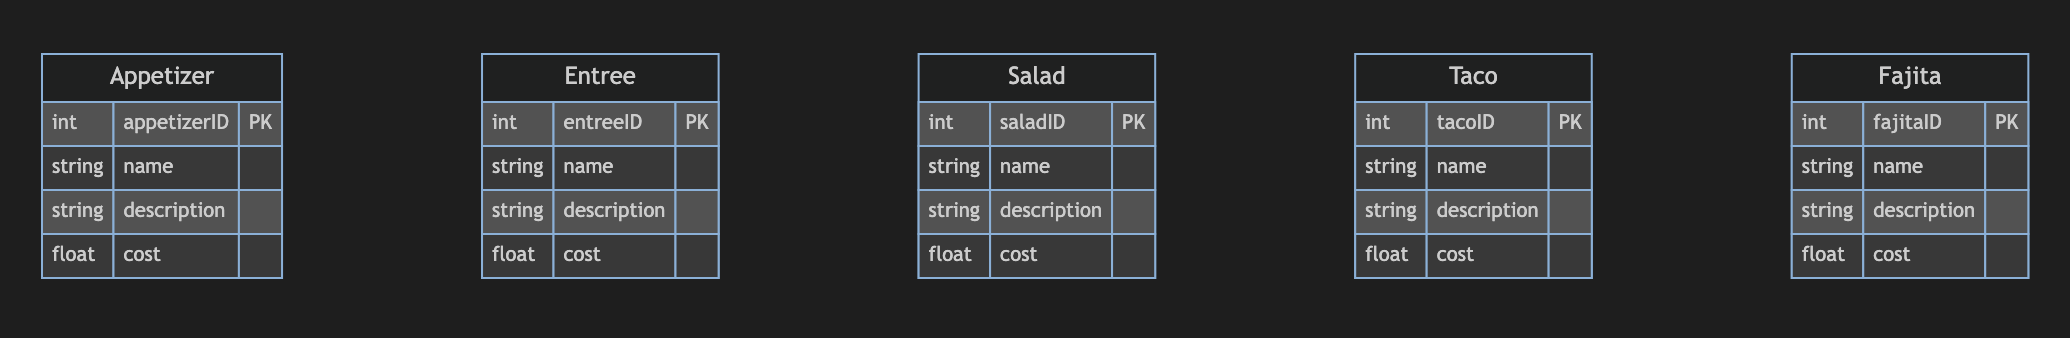
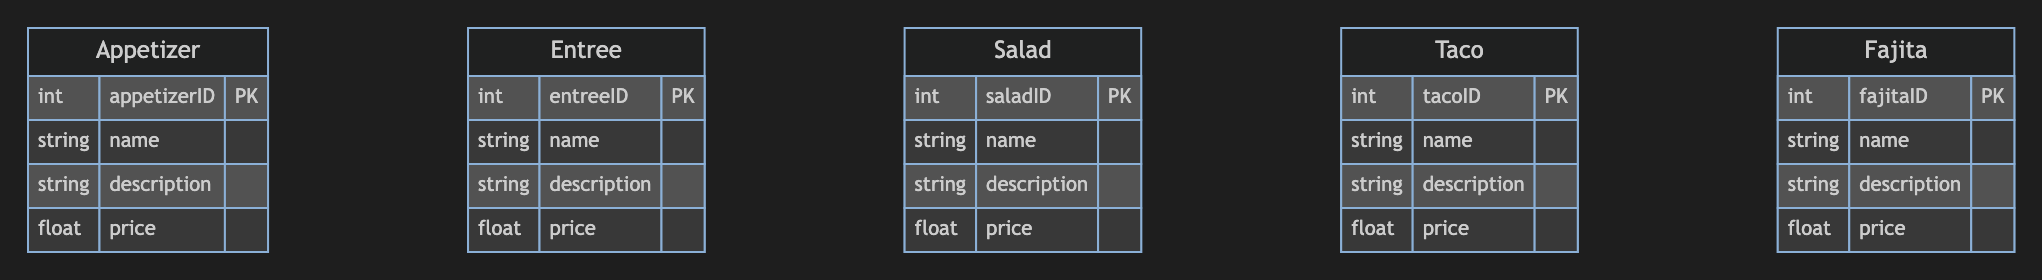
Created Entree DAO

diff --git a/src/daos/entree-dao.ts b/src/daos/entree-dao.ts
@@ -1,0 +1,103 @@
+/**
+ * Cesar Guerrero
+ * 04/17/2024
+ * 
+ * @file DAO for the Entree Table
+ */
+
+import { Repository, DataSource} from "typeorm";
+import { Entree } from "../models/entree";
+
+/**
+ * This class is the Data Access Object for the Entree Table and will be used to interact with the database
+ */
+export default class EntreeDAO{
+
+    private repository : Repository<Entree>;
+
+    constructor(dataSource: DataSource){
+        this.repository = dataSource.getRepository(Entree);
+    }
+
+    /**
+     * Return all the entree rows in the table
+     * @returns - A promise that resolves to an array of all the entrees in the table
+     */
+    async getAllEntrees(){
+        return await this.repository.find();
+    };
+
+    /**
+     * Attempt to find an entree with the given PK in the table
+     * @param {number | undefined} entreeID - The primary key of the entree we want to retrieve
+     * @returns - A promise that resolves to the entree object with the given ID
+     */
+    async getEntreeByID(entreeID: number|undefined){
+        return await this.repository.findOne({
+            where: {
+                entreeID: entreeID
+            }
+        });
+    };
+
+    /**
+     * Creates a new entree and attempt to save it to the database
+     * @param {Entree} entree - Must contain all of the necessary fields to create a new entree
+     * @returns - The object that was created in the database
+     */
+    async createEntree(entree: Entree){
+        const newEntree = this.repository.create(entree);
+        if(newEntree.price < 0){
+            throw new Error("Price cannot be negative");
+        };
+
+        const existingEntree = await this.getEntreeByID(newEntree.entreeID);
+        if(existingEntree !== null){
+            throw new Error("An entree with that PK already exists");
+        }
+
+        return await this.repository.save(newEntree);
+    };
+
+    /**
+     * Updates an existing entree in the table
+     * @param {Entree} entree - Must contain all of the necessary fields to update an entree
+     * @returns - The object that was updated in the database
+     */
+    async updateEntreeById(entree: Entree){
+        const existingEntree = await this.getEntreeByID(entree.entreeID);
+        if(existingEntree === null){
+            throw new Error("Entree does not exist");
+        }
+
+        const updatedEntree = {...existingEntree, ...entree};
+        if(updatedEntree.price < 0){
+            throw new Error("Price cannot be negative");
+        }
+
+        return await this.repository.save(entree);
+    };
+
+    /**
+     * Deletes an entree from the table
+     * @param {number | undefined} entreeID - The primary key of the entree we want to delete
+     * @returns - The object that was deleted from the database
+     */
+    async deleteEntreeById(entreeID: number|undefined){
+        const entree = await this.getEntreeByID(entreeID);
+        if(entree === null){
+            throw new Error("Entree does not exist");
+        }
+
+        return await this.repository.remove(entree);
+    };
+
+
+    /**
+     * Deletes all entrees from the table
+     * @returns - An empty promise
+     */
+    async deleteAllEntrees(){
+        return await this.repository.clear();
+    };
+}

diff --git a/src/daos/appetizer-dao.ts b/src/daos/appetizer-dao.ts
@@ -42,7 +42,7 @@ export default class AppetizerDAO{
     };
 
     /**
-     * Creates a new appetizer and attempts to save it to the database
+     * Creates a new appetizer and attempt to save it to the database
      * @param {Appetizer} appetizer - Must contain all of the necessary fields to create a new appetizer
      * @returns - The object that was created in the database
      */
@@ -53,7 +53,7 @@ export default class AppetizerDAO{
         }
         
         //We do not want to allow creation of appetizers with the same PK
-        const existingAppetizer = await this.getAppetizerByID(newAppetizer.appetizerID)
+        const existingAppetizer = await this.getAppetizerByID(newAppetizer.appetizerID);
         if(existingAppetizer !== null){
             throw new Error("An appetizer with that PK already exists");
         }
@@ -86,19 +86,19 @@ export default class AppetizerDAO{
      * @returns - An empty promise
      */
     async deleteAppetizerById(appetizerID: number|undefined){
-        const existingAppetizer = await this.getAppetizerByID(appetizerID);
-        if(existingAppetizer === null){
+        const appetizer = await this.getAppetizerByID(appetizerID);
+        if(appetizer === null){
             throw new Error("An appetizer with that PK does not exist");
         }
 
-        return await this.repository.remove(existingAppetizer);
+        return await this.repository.remove(appetizer);
     };
 
     /**
      * Clears all the data in the given table via hte TRUNCATE method
      * @returns - An empty promise
      */
-        async deleteAllAppetizers(){
+    async deleteAllAppetizers(){
         return await this.repository.clear();
     }
 

diff --git a/src/app.ts b/src/app.ts
@@ -14,9 +14,8 @@ import { DataSource } from "typeorm";
 import { testDataSource, devDataSource } from "./data-source";
 
 //DAOs
-//import { EntreeDAO } from "./dao/entree";
+import EntreeDAO from "./daos/entree-dao";
 import AppetizerDAO from "./daos/appetizer-dao";
-//import { SaladDAO } from "./dao/salad";
 
 
 /**
@@ -56,6 +55,7 @@ export default async function createApp(ENVIRONMENT ?: string){
     
     //Rather than handle all of the database logic within the routes, we can create DAOs to handle the database logic
     const appetizerDAO = new AppetizerDAO(dataSource);
+    const entreeDAO = new EntreeDAO(dataSource);
 
     return application;
 }

diff --git a/src/models/entree.ts b/src/models/entree.ts
@@ -11,7 +11,7 @@ import { Entity, Column, PrimaryGeneratedColumn} from 'typeorm';
 @Entity()
 export class Entree{
     @PrimaryGeneratedColumn()
-    entreeID!: number
+    entreeID?: number
 
     @Column()
     name!: string

diff --git a/README.md b/README.md
@@ -36,7 +36,7 @@ The above ER Diagrams were made using the Mermaid Diagramming Tool (https://merm
 The requirements around pricing for certain food combinations is handled within the DAO as opposed to built into the database. For instance in the database you will find that the *Sides Table* has costs associated with all of the various sides, but a number of food orders get these sides for free. In those cases the business logic handles any cost calculations.
 
 ## Simple Tables
-While the simple tables picture denotes multiple tables, you will find that in the actual database there are only tables for Appetizers, Entrees, and Salads. This was purely done for the sake of speeding up development. The first (3) tables are more than enough for use in development and testing.
+While the simple tables picture denotes multiple tables, you will find that in the actual database there are only tables for Appetizers and Entrees. This was purely done for the sake of speeding up development. The (2) tables are more than enough for use in development and testing.
 
 ## Complex Tables
 

diff --git a/readme-assets/database-design-simple.md b/readme-assets/database-design-simple.md
@@ -4,34 +4,34 @@
         int appetizerID PK
         string name
         string description
-        float cost
+        float price
     }
 
     Entree{
         int entreeID PK
         string name
         string description
-        float cost
+        float price
     }
 
     Salad{
         int saladID PK
         string name
         string description
-        float cost
+        float price
     }
 
     Taco{
         int tacoID PK
         string name
         string description
-        float cost
+        float price
     }
 
     Fajita{
         int fajitaID PK
         string name
         string description
-        float cost
+        float price
     }
 ```
